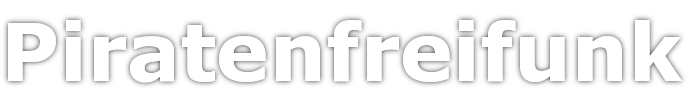
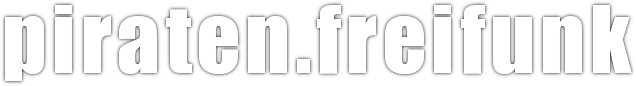
*minor theme alterations including new header image *added menu entry for heartbeat options and bugreport

Changed region(s): [[0.0, 0.0233, 1.0, 0.9767]]

diff --git a/themes/piraten/luasrc/view/themes/piraten/header.htm b/themes/piraten/luasrc/view/themes/piraten/header.htm
@@ -33,6 +33,7 @@ local tree     = luci.dispatcher.node()
 local cattree  = category and luci.dispatcher.node(category)
 local node     = luci.dispatcher.context.dispatched
 local hostname = luci.sys.hostname()
+local identifier, model, total_mem, cache, buffer, free_mem = luci.sys.sysinfo()
 
 local c = tree
 for i,r in ipairs(request) do
@@ -598,7 +599,12 @@ end
 								<p>
 									<%=luci.version.distname%><br />
 									<%=luci.version.distversion%><br />
+									<br/>
+									<%=model%><br/>
+									<br/>
 									<%:load%>: <%="%.2f" % load1%> <%="%.2f" % load5%> <%="%.2f" % load15%><br />
+									Total memory: <%=total_mem%> kB<br />
+									Free Memory: <%=free_mem%> kB<br />
 								</p>
 								<a href="https://www.piratenpartei.de">
 									<img 

diff --git a/themes/piraten/htdocs/luci-static/piraten/cascade.css b/themes/piraten/htdocs/luci-static/piraten/cascade.css
@@ -53,6 +53,7 @@
 		
 		#heading {
 			margin-left:20%; /* in addtion to the absolute header padding */
+			margin-top:10px; /* in addtion to the absolute header padding */
 		}
 	/**** End basic background layout setting ****/
 	
